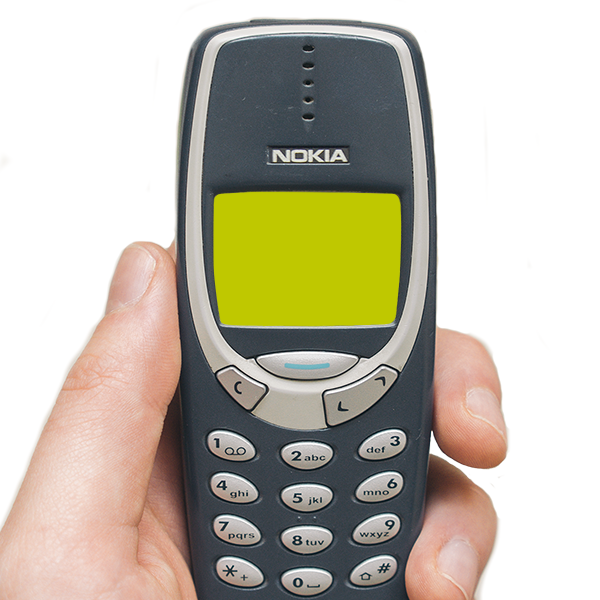
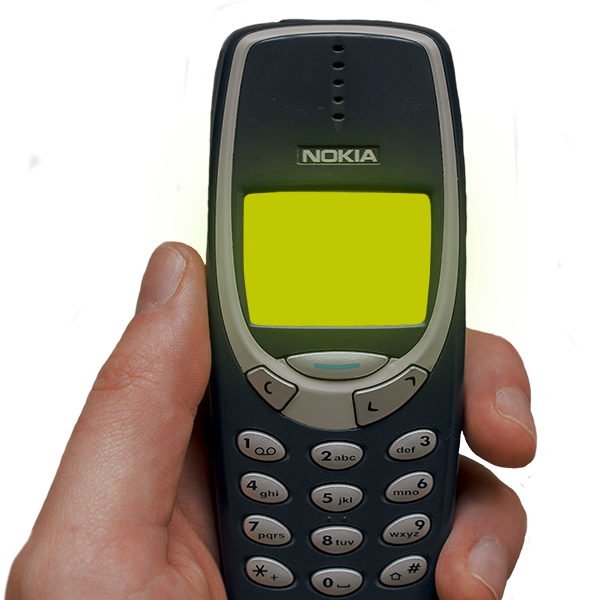
Updated the image assets, and added a nice background

diff --git a/src/components/main.scss b/src/components/main.scss
@@ -28,8 +28,9 @@
     }
 
     body {
+        background: #222 url('../images/city-bg.jpg') no-repeat center center;
+        background-size: cover;
         box-sizing: border-box;
-        background-color: #222;
         color: #fff;
         font-family: sans-serif;
         font-size: 100%;

diff --git a/src/components/snakeApp/SnakeApp.scss b/src/components/snakeApp/SnakeApp.scss
@@ -20,4 +20,5 @@
     align-items: center;
     justify-content: center;
     min-width: 614px;
+    padding-left: 31px; // Offset the phone alignment of the background
 }
